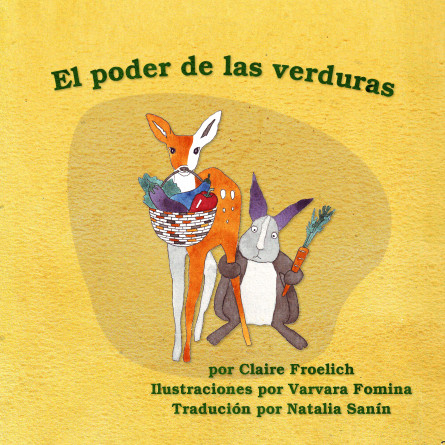
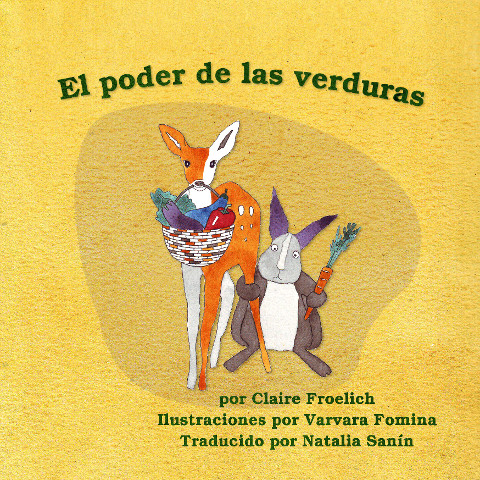
add Kate review, correct es thumbnail, add photo credit to natalia

diff --git a/src/pages/index.en.js b/src/pages/index.en.js
@@ -35,6 +35,9 @@ import page4 from '../../static/images/book-pages/en/page-4.jpg'
 import page5 from '../../static/images/book-pages/en/page-5.jpg'
 import page6 from '../../static/images/book-pages/en/page-6.jpg'
 
+// review
+import imgKateReview from '../../static/images/reviews/honest-review.jpg'
+
 // Array-ify
 const veggieRainbow = [
   imgBellpepper,
@@ -164,6 +167,10 @@ export default ({ data }) => {
             <div className="review">
               <span className="review-text">Finally, a children's book where <strong>I laughed as loud as my kids did</strong>.</span>
               <p className="review-author">- Farhan D., father of twins</p>
+            </div>
+            <div >
+              <img src={imgKateReview} alt="review by Kate, children's drawing of four family members reacting to the book with a postive note of thanks"/>
+              <p className="review-author">- Kate, honest critic</p>
             </div>
           </div>
 

diff --git a/src/pages/creators.ja.js b/src/pages/creators.ja.js
@@ -79,6 +79,7 @@ export default () => (
         <div className="creator">
           <div className="creator-section-img">
             <img src={imgNatalia} className="responsive" alt="Natalia Sanín"/>
+            <p className="ta-center">出典 ブレント・マランズ</p>
           </div>
           <div className="creator-section-text">
             <h3><strong>ナタリア・<span className="w">サニン</span></strong></h3>

diff --git a/src/pages/creators.en.js b/src/pages/creators.en.js
@@ -80,6 +80,7 @@ export default () => (
         <div className="creator">
           <div className="creator-section-img">
             <img src={imgNatalia} className="responsive" alt="Natalia Sanín"/>
+            <p className="ta-center">photo by Brent Mullins</p> 
           </div>
           <div className="creator-section-text">
             <h3><strong>Natalia Sanín</strong></h3>

diff --git a/src/pages/creators.fr.js b/src/pages/creators.fr.js
@@ -80,6 +80,7 @@ export default () => (
         <div className="creator">
           <div className="creator-section-img">
             <img src={imgNatalia} className="responsive" alt="Natalia Sanín"/>
+            <p className="ta-center">photo par Brent Mullins</p>
           </div>
           <div className="creator-section-text">
             <h3><strong>Natalia Sanín</strong></h3>

diff --git a/src/pages/creators.es.js b/src/pages/creators.es.js
@@ -80,6 +80,7 @@ export default () => (
         <div className="creator">
           <div className="creator-section-img">
             <img src={imgNatalia} className="responsive" alt="Natalia Sanín"/>
+            <p className="ta-center">foto por Brent Mullins</p>
           </div>
           <div className="creator-section-text">
             <h3><strong>Natalia Sanín</strong></h3>
